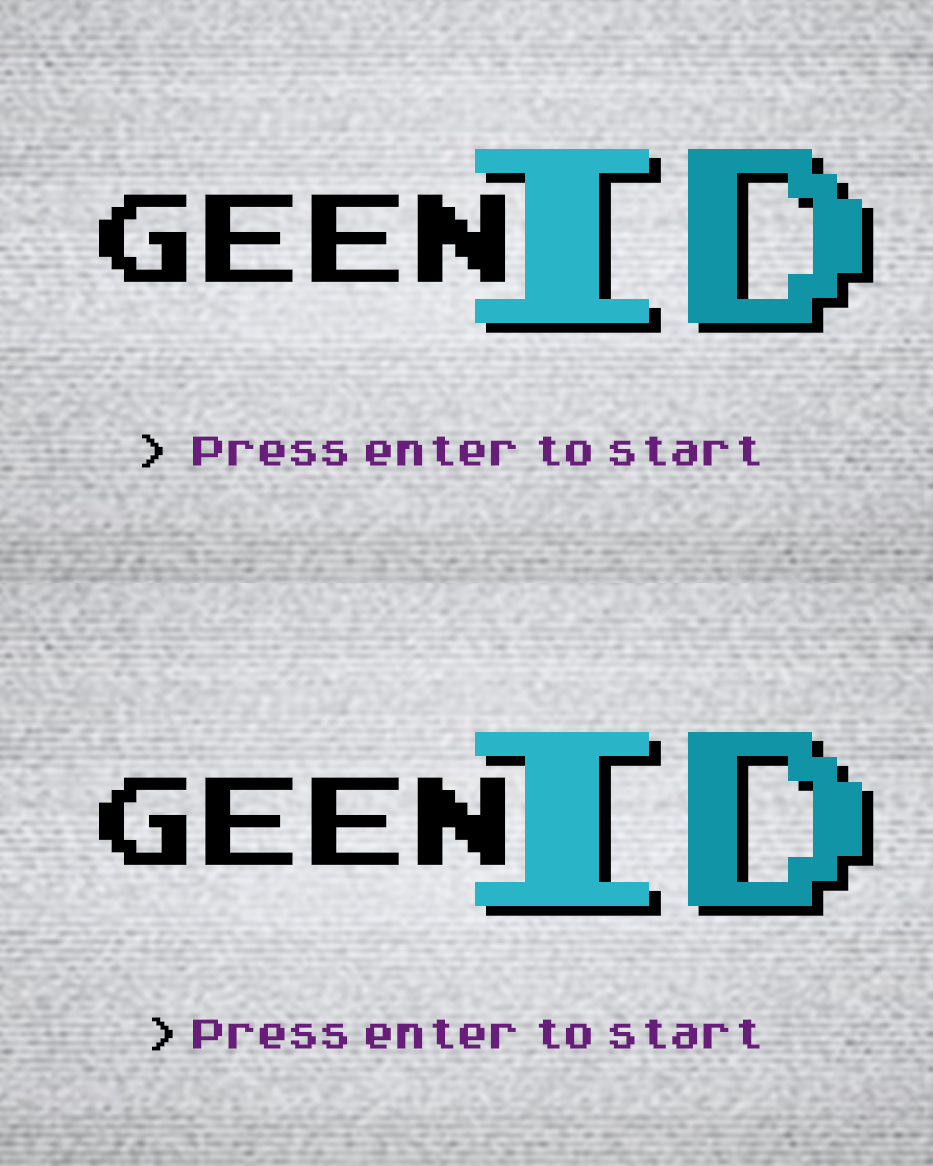
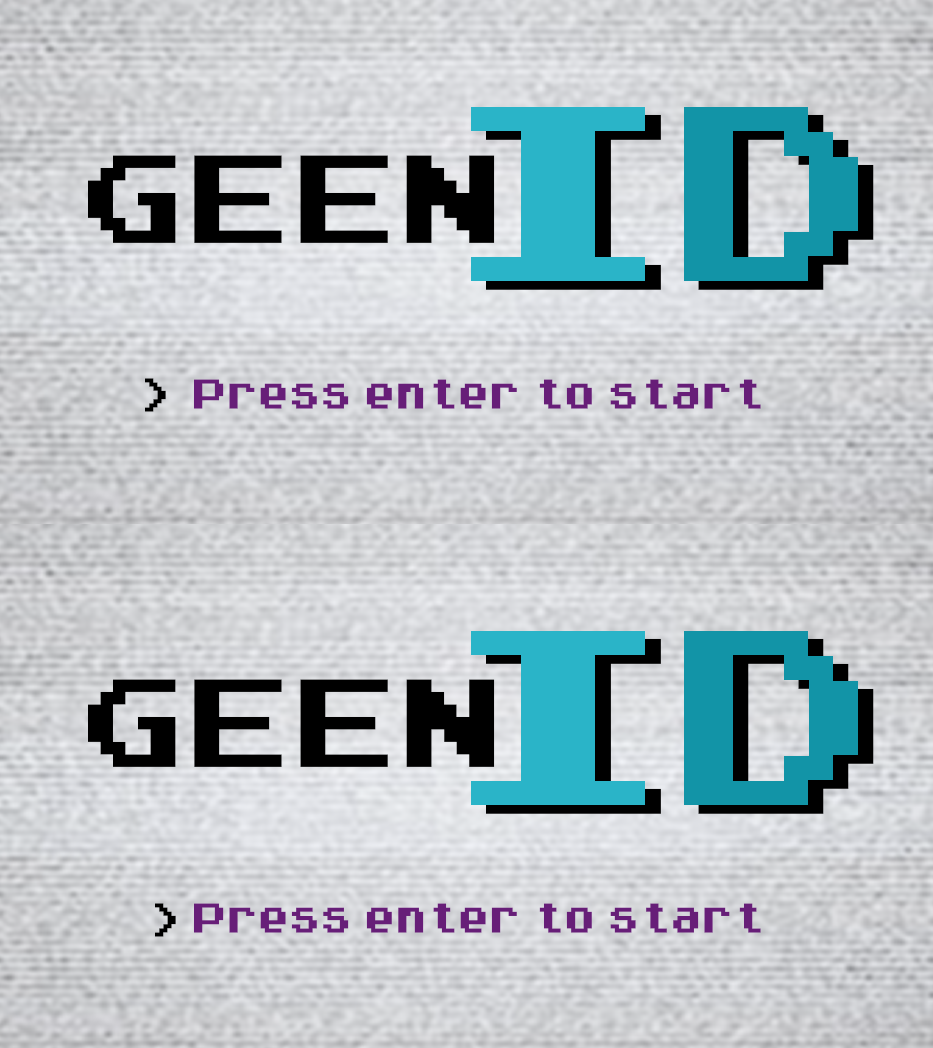
hopefully a fix pull

diff --git a/src/screens/HomeScreen.ts b/src/screens/HomeScreen.ts
@@ -1,0 +1,20 @@
+/// <reference path="LevelScreen.ts"/>
+class HomeScreen extends LevelScreen{
+    
+
+    public constructor(game: Game) {
+
+        super(game);
+        this.icons[0] = new Icon(new Vector(0, 0), new Vector(0, 0), this.game.ctx, './assets/finalHomeScreen.png', 1, 2, 1)
+    }
+
+    public draw() {
+
+        super.draw(this.game.ctx);
+        this.collide();
+
+        if (this.game.userInput.isKeyDown(UserInput.KEY_ENTER)) {
+            this.game.switchScreen(new SelectionScreen(this.game));
+        }
+    }
+}

diff --git a/src/screens/Level2.ts b/src/screens/Level2.ts
@@ -12,7 +12,7 @@ class Level2 extends LevelScreen {
         // fill this boi up
         this.programs[0] = new Program(new Vector(343, 518), new Vector(0, 0), this.game.ctx, './transparentBreed.png', 1, 1, 1, 0);
         this.programs[0].isOpen = true;
-        document.body.style.backgroundImage = "url('./assets/programs/Glooole.png')";
+        document.body.style.backgroundImage = "url('./assets/programs/GloooleLevel.png')";
         }
 
     public draw() {

diff --git a/src/Game.ts b/src/Game.ts
@@ -19,7 +19,7 @@ class Game {
         document.documentElement.style.overflow = 'hidden';
         // Set the context of the canvas
         this.ctx = this.canvas.getContext("2d");
-        this.currentScreen = new SelectionScreen(this); // Level the game starts on
+        this.currentScreen = new HomeScreen(this); // Level the game starts on
         this.input = new UserInput();
         this.Lives = 5;
         this.playerInfo = [];
